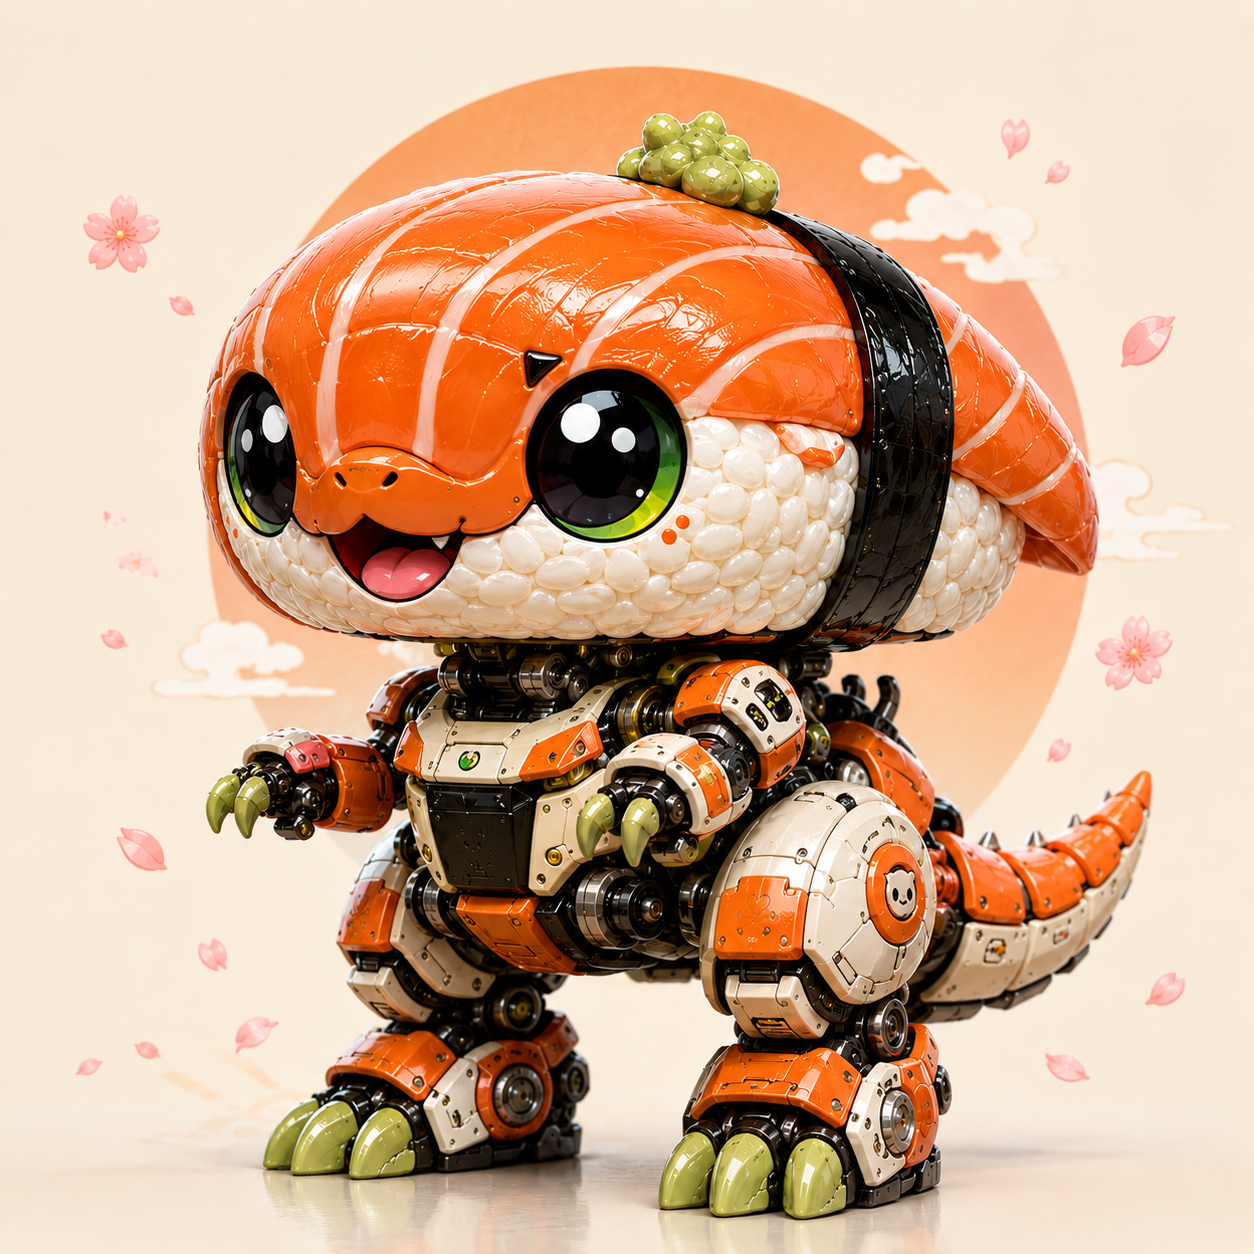
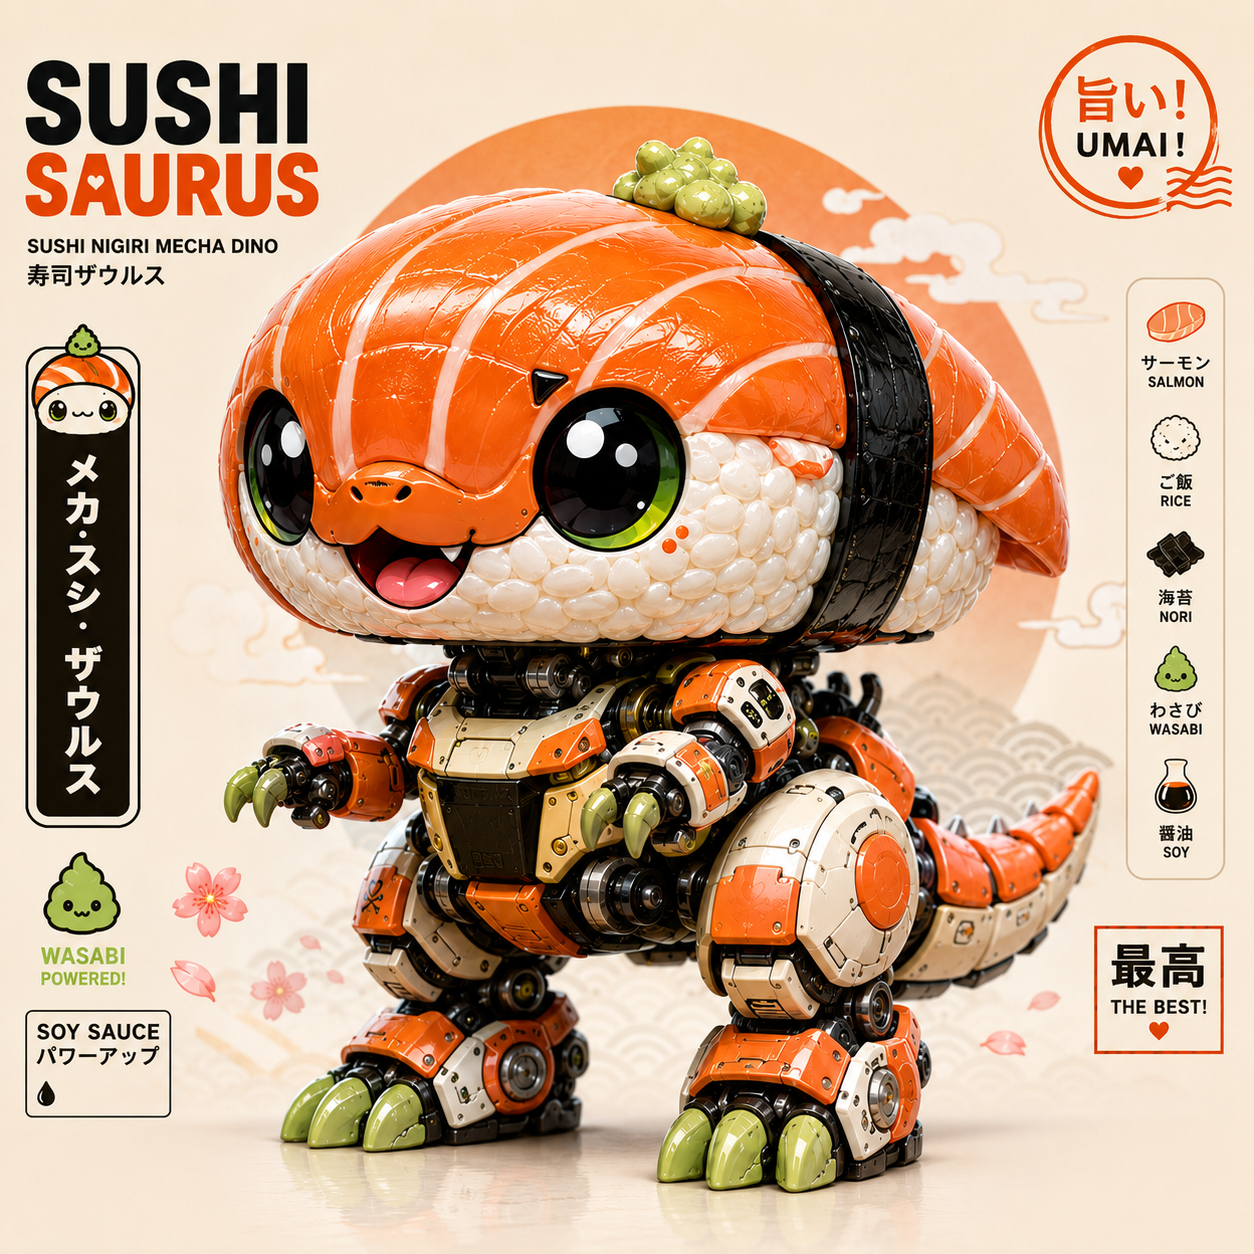
Replace Sushi Saurus with clean poster version (no third-party branding)

diff --git a/index.html b/index.html
@@ -500,7 +500,7 @@ A collection of AI-generated worlds, characters, and concepts, each one built ar
 </button>
 
 <!-- Tile: Sushi Saurus -->
-<button type="button" class="tile relative aspect-square overflow-hidden group text-left bg-surface-container-lowest" data-title="Sushi Saurus" data-image="images/sushi-saurus.png" data-description="This time I turned the whole avatar concept into a little dinosaur instead of a person, same salmon nigiri head and giant sparkly eyes, but now with a mechanical dino body, wasabi colored claws, and a curled tail. I wanted to see how far I could stretch this character before it stopped feeling like part of the same world, and honestly a sushi headed robot dinosaur still fits right in. He might be my favorite one to look at out of all the mecha versions so far.">
+<button type="button" class="tile relative aspect-square overflow-hidden group text-left bg-surface-container-lowest" data-title="Sushi Saurus" data-image="images/sushi-saurus.png" data-description="This time I turned the whole avatar concept into a little dinosaur instead of a person, same salmon nigiri head and giant sparkly eyes, but now with a mechanical dino body, wasabi colored claws, and a curled tail. I gave him the full packaging treatment too, a proper title lockup, an ingredient list breaking down salmon, rice, nori, wasabi, and soy, plus little stamps that say Umai and The Best, like he's an actual collectible figure with his own box art. He might be my favorite one to look at out of all the mecha versions so far.">
 <img src="images/sushi-saurus.png" alt="Sushi Saurus" class="w-full h-full object-cover">
 <div class="tile-overlay absolute inset-0 flex flex-col justify-end p-4">
 <h3 class="font-section-header text-lg text-text-main">Sushi Saurus</h3>